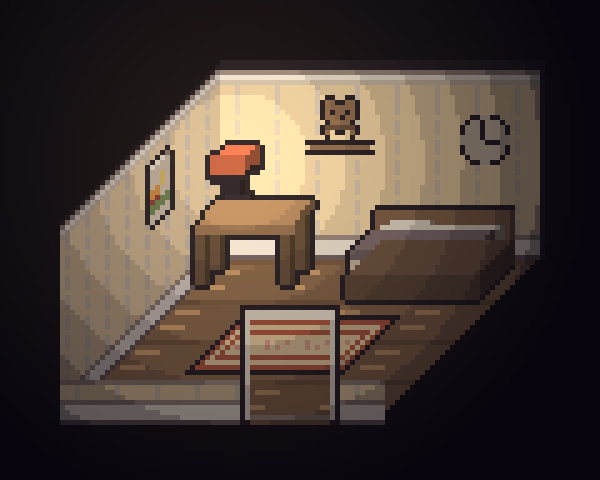
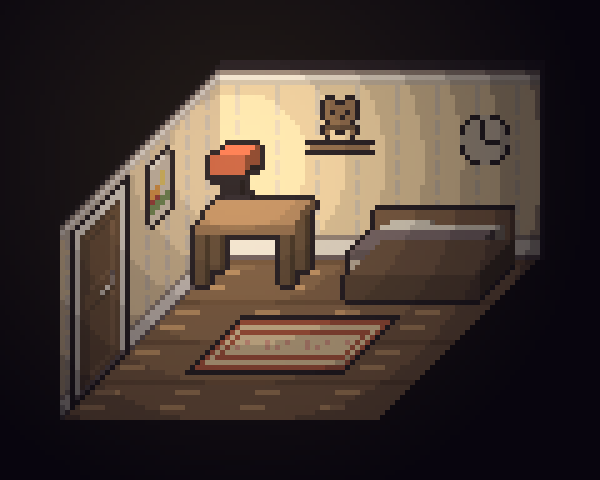
Corridor: remove side doors, dark recess, child-room door to the right of recess; child room back to left-wall door
Claude-Session: https://claude.ai/code/session_01FPZSaKiVNU2zED737yZX4w

Changed region(s): [[0.09, 0.375, 0.66, 0.9062]]

diff --git a/tools/render_room.py b/tools/render_room.py
@@ -34,6 +34,7 @@ def render_room(path, scale=1):
     ncols, nrows = c1 - c0 + 1, len(floor_rows)
     W, D = ncols * T, nrows * T
     sky = int(m.get('extra', {}).get('sky_rows', '0')); wallh = WALLH + 16 * sky      # 방지대 위에 하늘 줄을 더 쌓는다
+    extra_dark = m.get('extra', {}).get('recess_dark') == '1'
     rc = m.get('extra', {}).get('recess'); RD = T if rc else 0                  # 뒷벽이 한 칸 안쪽으로 패인 부분(알코브): `recess: 시작열 끝열`
     ra, rb = [int(v) for v in rc.split()] if rc else (0, -1)
     CW, CH = int(PAD * 2 + W + SK * (D + RD)), int(PAD * 2 + wallh + SS * (D + RD))
@@ -53,7 +54,10 @@ def render_room(path, scale=1):
             if d >= D and not (ra * T <= x < (rb + 1) * T): continue                # 알코브 바닥만 더 안쪽까지
             fr = max(0, nrows - 1 - int(d // T)); ch = rows[floor_rows[fr]][c0 + int(x // T)]
             if not tile(ch).startswith('floor'): continue
-            px[X, Y] = get(tile(ch), int(x), 15 - int(d % T))
+            col = get(tile(ch), int(x), 15 - int(d % T))
+            if d >= D - 4 and rc and ra * T <= x < (rb + 1) * T and extra_dark:           # 알코브 바닥: 안쪽으로 갈수록 검게 사라진다
+                k = max(.06, .55 - (d - (D - 4)) / (RD + 4) * .5); col = (int(col[0] * k), int(col[1] * k), int(col[2] * k), col[3])
+            px[X, Y] = col
     # 왼쪽 벽
     for X in range(int(X0), int(X0 + SK * D) + 1):
         d = (X + .5 - X0) / SK
@@ -84,7 +88,7 @@ def render_room(path, scale=1):
                 if z < 16: nm, ty = tile(rows[base_row][c]), 15 - int(z)
                 elif z < 32: nm, ty = tile(rows[mid_row][c]), 15 - int(z - 16)
                 else: nm, ty = tile(rows[top_row][c]), int(wallh - 1 - z)
-                r_, g_, b_, a_ = get(nm, int(x), ty); px[X, Y] = (int(r_ * .9), int(g_ * .9), int(b_ * .92), a_)       # 안쪽이라 조금 어둡게
+                r_, g_, b_, a_ = get(nm, int(x), ty); px[X, Y] = ((int(r_ * .05), int(g_ * .05), int(b_ * .07), a_) if extra_dark else (int(r_ * .9), int(g_ * .9), int(b_ * .92), a_))       # 안쪽은 어둡게(recess_dark면 거의 검정)
         for X in range(int(X0 + ra * T + SK * D), int(X0 + ra * T + SK * (D + RD)) + 1):
             d = (X + .5 - X0 - ra * T) / SK
             if not (D <= d < D + RD): continue
@@ -92,7 +96,7 @@ def render_room(path, scale=1):
                 z = (Y0 - SS * d) - (Y + .5)
                 if not (0 <= z < wallh): continue
                 nm, ty = (names['base'], 15 - int(z)) if z < 16 else (names['mid'], 15 - int(z - 16)) if z < 32 else (names['top'], int(wallh - 1 - z))
-                r_, g_, b_, a_ = get(nm, int(d), ty); px[X, Y] = (int(r_ * .72), int(g_ * .72), int(b_ * .78), a_)
+                r_, g_, b_, a_ = get(nm, int(d), ty); px[X, Y] = (int(r_ * (.25 if extra_dark else .72)), int(g_ * (.25 if extra_dark else .72)), int(b_ * (.28 if extra_dark else .78)), a_)
     emitters = []
     def stamp(name, left, bottom):                           # 정면 스프라이트 (왼쪽 아래 모서리 기준)
         sp = lib[name]; img.alpha_composite(sp, (int(round(left)), int(round(bottom - sp.height))))

diff --git a/tools/render_maps.py b/tools/render_maps.py
@@ -43,7 +43,7 @@ def load_map(path):
             m['tone'] = tuple(int(v) for v in line[5:].split())
         elif line.startswith('ambient:'):
             m['ambient'] = float(line[8:])
-        elif line.startswith(('view:', 'left_wall:', 'left_add:', 'sky_rows:', 'front_wall:', 'front_door:', 'front_glow:', 'recess:')) and section is None:
+        elif line.startswith(('view:', 'left_wall:', 'left_add:', 'sky_rows:', 'front_wall:', 'front_door:', 'front_glow:', 'recess:', 'recess_dark:')) and section is None:
             m.setdefault('extra', {})[line.split(':')[0]] = line.split(':', 1)[1].strip()      # 사선 시점 방(render_room.py)용 추가 줄
         elif line.startswith('dream:'):
             m['dream'] = dict(p.split('=') for p in line[6:].split())
